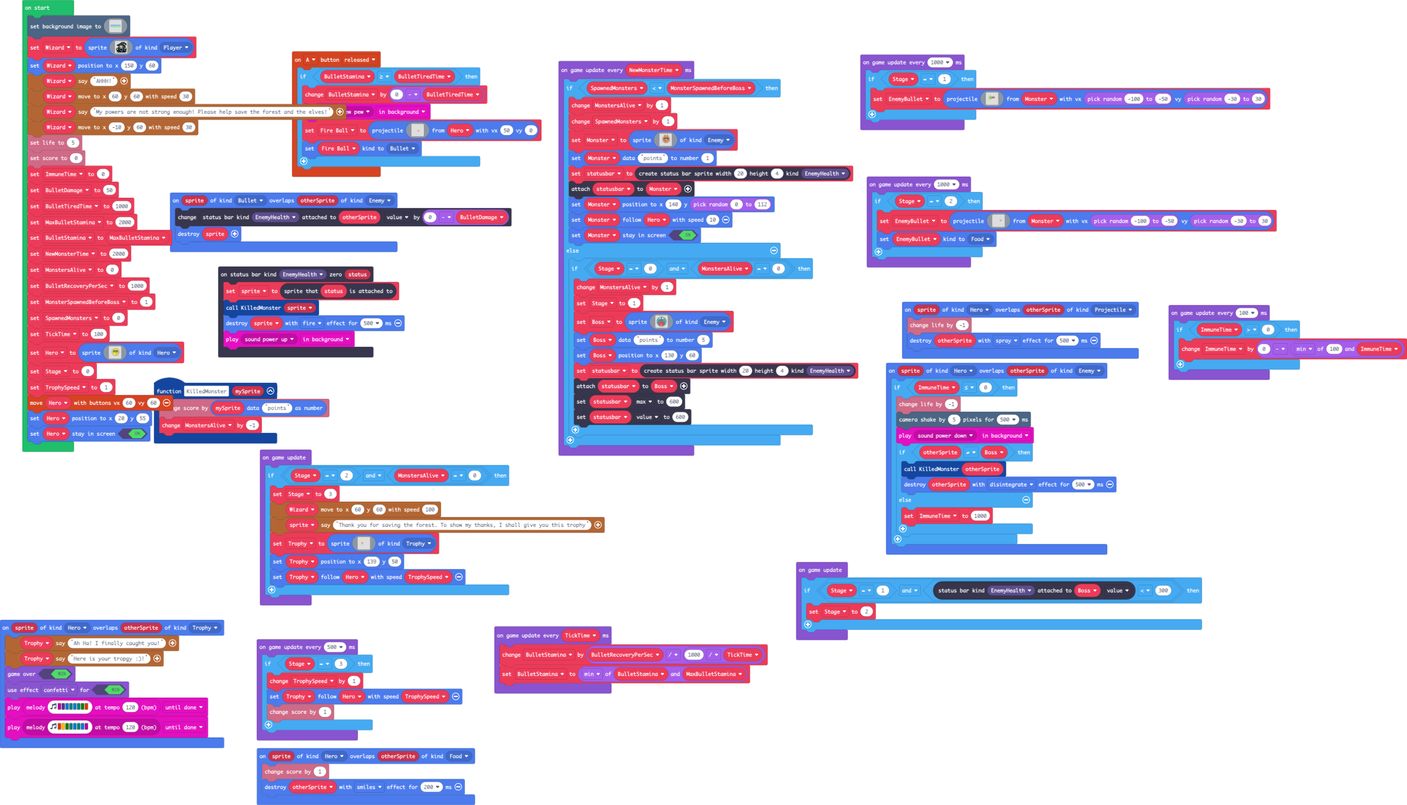
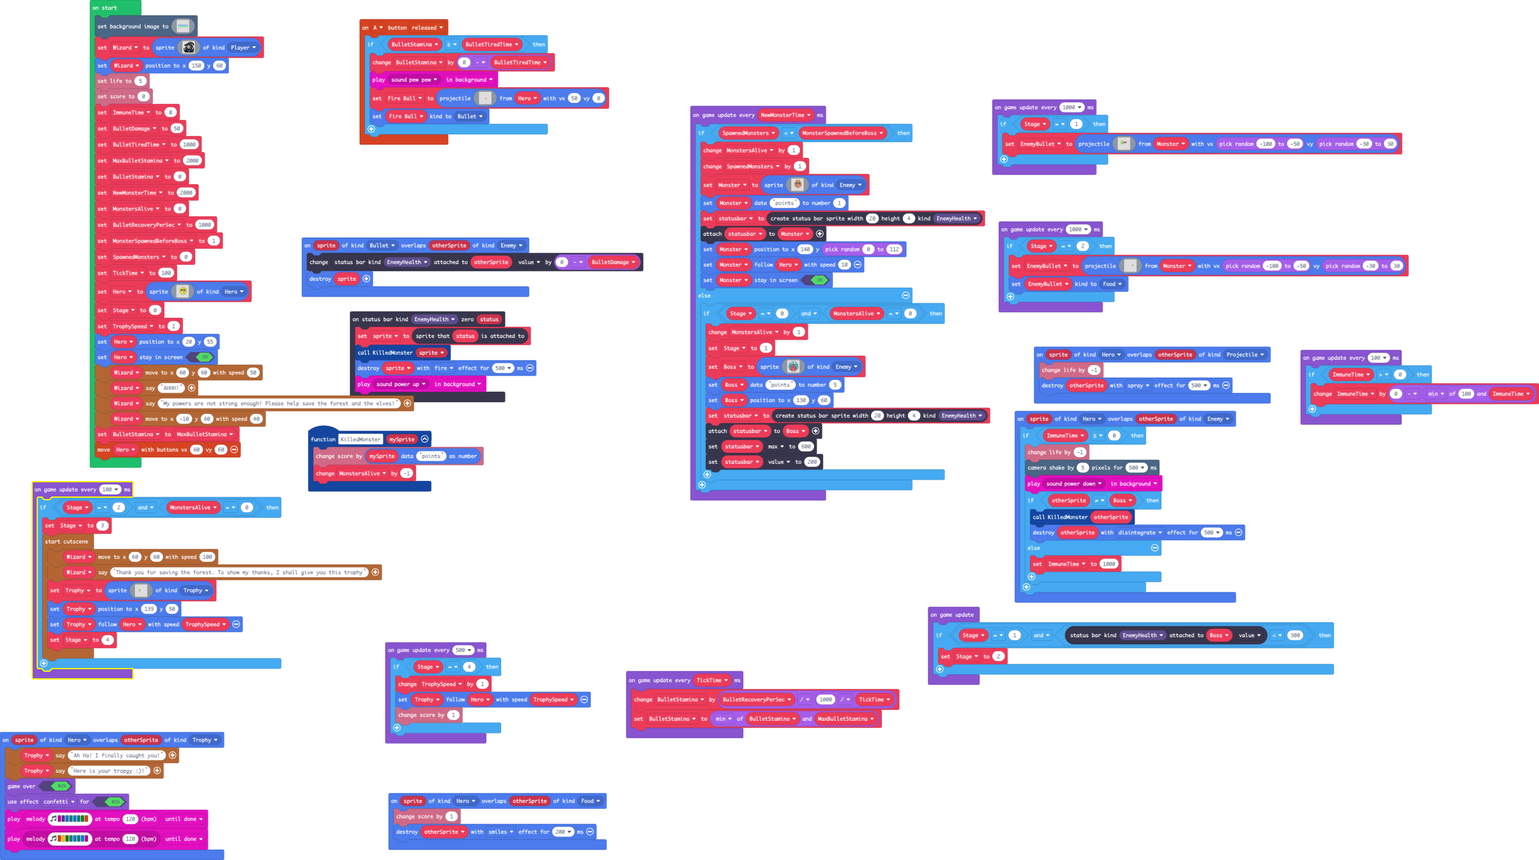
Update main.blocks, main.ts, tilemap.g.jres, tilemap.g.ts

diff --git a/main.ts b/main.ts
@@ -260,17 +260,13 @@ let Wizard = sprites.create(img`
     . . f f f f f f f f f f f f f . 
     `, SpriteKind.Player)
 Wizard.setPosition(150, 60)
-story.spriteSayText(Wizard, "AHHH!")
-story.spriteMoveToLocation(Wizard, 60, 60, 30)
-story.spriteSayText(Wizard, "My powers are not strong enough! Please help save the forest and the elves!")
-story.spriteMoveToLocation(Wizard, -10, 60, 30)
 info.setLife(5)
 info.setScore(0)
 ImmuneTime = 0
 BulletDamage = 50
 BulletTiredTime = 1000
 let MaxBulletStamina = 2000
-BulletStamina = MaxBulletStamina
+BulletStamina = 0
 let NewMonsterTime = 2000
 let MonstersAlive = 0
 let BulletRecoveryPerSec = 1000
@@ -331,120 +327,14 @@ Hero = sprites.create(img`
     `, SpriteKind.Hero)
 let Stage = 0
 let TrophySpeed = 1
-controller.moveSprite(Hero, 60, 60)
 Hero.setPosition(20, 55)
 Hero.setStayInScreen(true)
-game.onUpdate(function () {
-    if (Stage == 2 && MonstersAlive == 0) {
-        Stage = 3
-        story.spriteMoveToLocation(Wizard, 60, 60, 100)
-        story.spriteSayText(sprite, "Thank you for saving the forest. To show my thanks, I shall give you this trophy")
-        Trophy = sprites.create(img`
-            ....................................................................................................
-            ....................................................................................................
-            ....................................................................................................
-            ....................................................................................................
-            ....................................................................................................
-            ....................................................................................................
-            ....................................................................................................
-            ....................................................................................................
-            ....................................................................................................
-            ....................................................................................................
-            ....................................................................................................
-            ....................................................................................................
-            ....................................................................................................
-            ....................................................................................................
-            ....................................................................................................
-            ....................................................................................................
-            ....................................................................................................
-            ....................................................................................................
-            ....................................................................................................
-            ....................................................................................................
-            ....................................................................................................
-            ....................................................................................................
-            ....................................................................................................
-            ....................................................................................................
-            ....................................................................................................
-            ....................................................................................................
-            ....................................................................................................
-            ....................................................................................................
-            ..............................55555555..............................................................
-            ...........................55555555515555...........................................................
-            ..........................55.5555555515.55..........................................................
-            ..........................5..5555555515..5..........................................................
-            ..........................55.5555555515.55..........................................................
-            ...........................55555555555555...........................................................
-            ..............................5555555...............................................................
-            ...............................55555................................................................
-            ................................5555................................................................
-            ................................5555................................................................
-            ................................5555................................................................
-            ................................5555................................................................
-            ................................5555................................................................
-            ..............................bbbbbbbb..............................................................
-            ............................ffffffffffff............................................................
-            ...........................effffffffffffe...........................................................
-            ...........................ee7777777777ee...........................................................
-            ...........................ee7dddddddd7ee...........................................................
-            ...........................eedddfddfdddee...........................................................
-            ............................eeddddddddee............................................................
-            ............................eeeddbbddeee............................................................
-            .............................ee7dddd7ee.............................................................
-            .............................e77777777e.............................................................
-            .............................7777777777.............................................................
-            .............................7777777777.............................................................
-            .............................777eeee777.............................................................
-            .............................eeee55eeee.............................................................
-            .............................777eeee777.............................................................
-            .............................7777777777.............................................................
-            .............................7777777777.............................................................
-            ..............................eee..eee..............................................................
-            ..............................ccc..ccc..............................................................
-            ....................................................................................................
-            ....................................................................................................
-            ....................................................................................................
-            ....................................................................................................
-            ....................................................................................................
-            ....................................................................................................
-            ....................................................................................................
-            ....................................................................................................
-            ....................................................................................................
-            ....................................................................................................
-            ....................................................................................................
-            ....................................................................................................
-            ....................................................................................................
-            ....................................................................................................
-            ....................................................................................................
-            ....................................................................................................
-            ....................................................................................................
-            ....................................................................................................
-            ....................................................................................................
-            ....................................................................................................
-            ....................................................................................................
-            ....................................................................................................
-            ....................................................................................................
-            ....................................................................................................
-            ....................................................................................................
-            ....................................................................................................
-            ....................................................................................................
-            ....................................................................................................
-            ....................................................................................................
-            ....................................................................................................
-            ....................................................................................................
-            ....................................................................................................
-            ....................................................................................................
-            ....................................................................................................
-            ....................................................................................................
-            ....................................................................................................
-            ....................................................................................................
-            ....................................................................................................
-            ....................................................................................................
-            ....................................................................................................
-            `, SpriteKind.Trophy)
-        Trophy.setPosition(139, 50)
-        Trophy.follow(Hero, TrophySpeed)
-    }
-})
+story.spriteMoveToLocation(Wizard, 60, 60, 50)
+story.spriteSayText(Wizard, "AHHH!")
+story.spriteSayText(Wizard, "My powers are not strong enough! Please help save the forest and the elves!")
+story.spriteMoveToLocation(Wizard, -10, 60, 40)
+BulletStamina = MaxBulletStamina
+controller.moveSprite(Hero, 60, 60)
 game.onUpdate(function () {
     if (Stage == 1 && statusbars.getStatusBarAttachedTo(StatusBarKind.EnemyHealth, Boss).value < 300) {
         Stage = 2
@@ -820,12 +710,12 @@ game.onUpdateInterval(NewMonsterTime, function () {
             statusbar = statusbars.create(20, 4, StatusBarKind.EnemyHealth)
             statusbar.attachToSprite(Boss)
             statusbar.max = 600
-            statusbar.value = 600
+            statusbar.value = 200
         }
     }
 })
 game.onUpdateInterval(500, function () {
-    if (Stage == 3) {
+    if (Stage == 4) {
         TrophySpeed += 1
         Trophy.follow(Hero, TrophySpeed)
         info.changeScoreBy(1)
@@ -834,5 +724,119 @@ game.onUpdateInterval(500, function () {
 game.onUpdateInterval(100, function () {
     if (ImmuneTime > 0) {
         ImmuneTime += 0 - Math.min(100, ImmuneTime)
+    }
+})
+game.onUpdateInterval(100, function () {
+    if (Stage == 2 && MonstersAlive == 0) {
+        Stage = 3
+        story.startCutscene(function () {
+            story.spriteMoveToLocation(Wizard, 60, 60, 100)
+            story.spriteSayText(Wizard, "Thank you for saving the forest. To show my thanks, I shall give you this trophy")
+            Trophy = sprites.create(img`
+                ....................................................................................................
+                ....................................................................................................
+                ....................................................................................................
+                ....................................................................................................
+                ....................................................................................................
+                ....................................................................................................
+                ....................................................................................................
+                ....................................................................................................
+                ....................................................................................................
+                ....................................................................................................
+                ....................................................................................................
+                ....................................................................................................
+                ....................................................................................................
+                ....................................................................................................
+                ....................................................................................................
+                ....................................................................................................
+                ....................................................................................................
+                ....................................................................................................
+                ....................................................................................................
+                ....................................................................................................
+                ....................................................................................................
+                ....................................................................................................
+                ....................................................................................................
+                ....................................................................................................
+                ....................................................................................................
+                ....................................................................................................
+                ....................................................................................................
+                ....................................................................................................
+                ..............................55555555..............................................................
+                ...........................55555555515555...........................................................
+                ..........................55.5555555515.55..........................................................
+                ..........................5..5555555515..5..........................................................
+                ..........................55.5555555515.55..........................................................
+                ...........................55555555555555...........................................................
+                ..............................5555555...............................................................
+                ...............................55555................................................................
+                ................................5555................................................................
+                ................................5555................................................................
+                ................................5555................................................................
+                ................................5555................................................................
+                ................................5555................................................................
+                ..............................bbbbbbbb..............................................................
+                ............................ffffffffffff............................................................
+                ...........................effffffffffffe...........................................................
+                ...........................ee7777777777ee...........................................................
+                ...........................ee7dddddddd7ee...........................................................
+                ...........................eedddfddfdddee...........................................................
+                ............................eeddddddddee............................................................
+                ............................eeeddbbddeee............................................................
+                .............................ee7dddd7ee.............................................................
+                .............................e77777777e.............................................................
+                .............................7777777777.............................................................
+                .............................7777777777.............................................................
+                .............................777eeee777.............................................................
+                .............................eeee55eeee.............................................................
+                .............................777eeee777.............................................................
+                .............................7777777777.............................................................
+                .............................7777777777.............................................................
+                ..............................eee..eee..............................................................
+                ..............................ccc..ccc..............................................................
+                ....................................................................................................
+                ....................................................................................................
+                ....................................................................................................
+                ....................................................................................................
+                ....................................................................................................
+                ....................................................................................................
+                ....................................................................................................
+                ....................................................................................................
+                ....................................................................................................
+                ....................................................................................................
+                ....................................................................................................
+                ....................................................................................................
+                ....................................................................................................
+                ....................................................................................................
+                ....................................................................................................
+                ....................................................................................................
+                ....................................................................................................
+                ....................................................................................................
+                ....................................................................................................
+                ....................................................................................................
+                ....................................................................................................
+                ....................................................................................................
+                ....................................................................................................
+                ....................................................................................................
+                ....................................................................................................
+                ....................................................................................................
+                ....................................................................................................
+                ....................................................................................................
+                ....................................................................................................
+                ....................................................................................................
+                ....................................................................................................
+                ....................................................................................................
+                ....................................................................................................
+                ....................................................................................................
+                ....................................................................................................
+                ....................................................................................................
+                ....................................................................................................
+                ....................................................................................................
+                ....................................................................................................
+                ....................................................................................................
+                `, SpriteKind.Trophy)
+            Trophy.setPosition(139, 50)
+            Trophy.follow(Hero, TrophySpeed)
+            Stage = 4
+        })
     }
 })

diff --git a/tilemap.g.ts b/tilemap.g.ts
@@ -1,5 +1,14 @@
 // Auto-generated code. Do not edit.
 namespace myTiles {
+    //% fixedInstance jres blockIdentity=images._tile
+    export const transparency16 = image.ofBuffer(hex``);
+
+    helpers._registerFactory("tile", function(name: string) {
+        switch(helpers.stringTrim(name)) {
+            case "transparency16":return transparency16;
+        }
+        return null;
+    })
 
 }
 // Auto-generated code. Do not edit.
